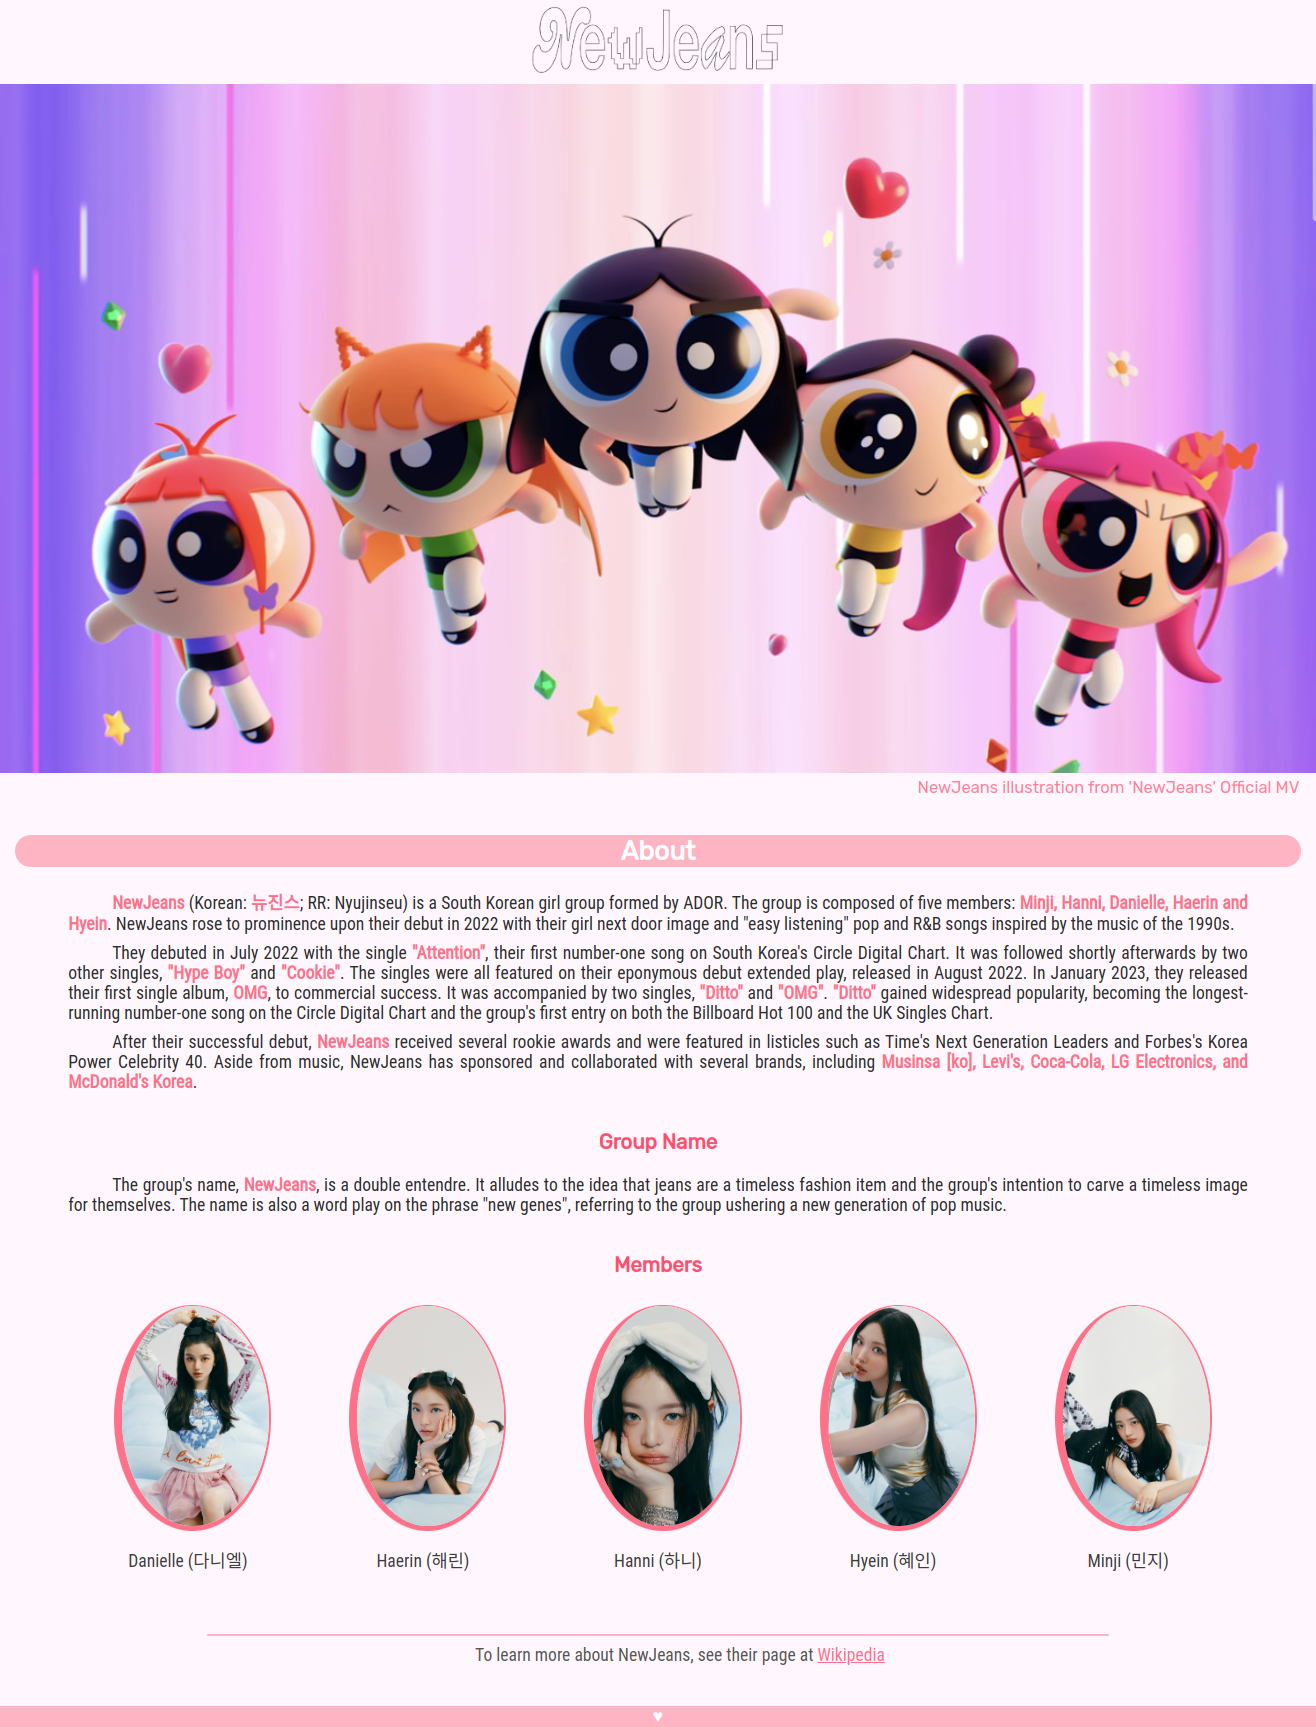
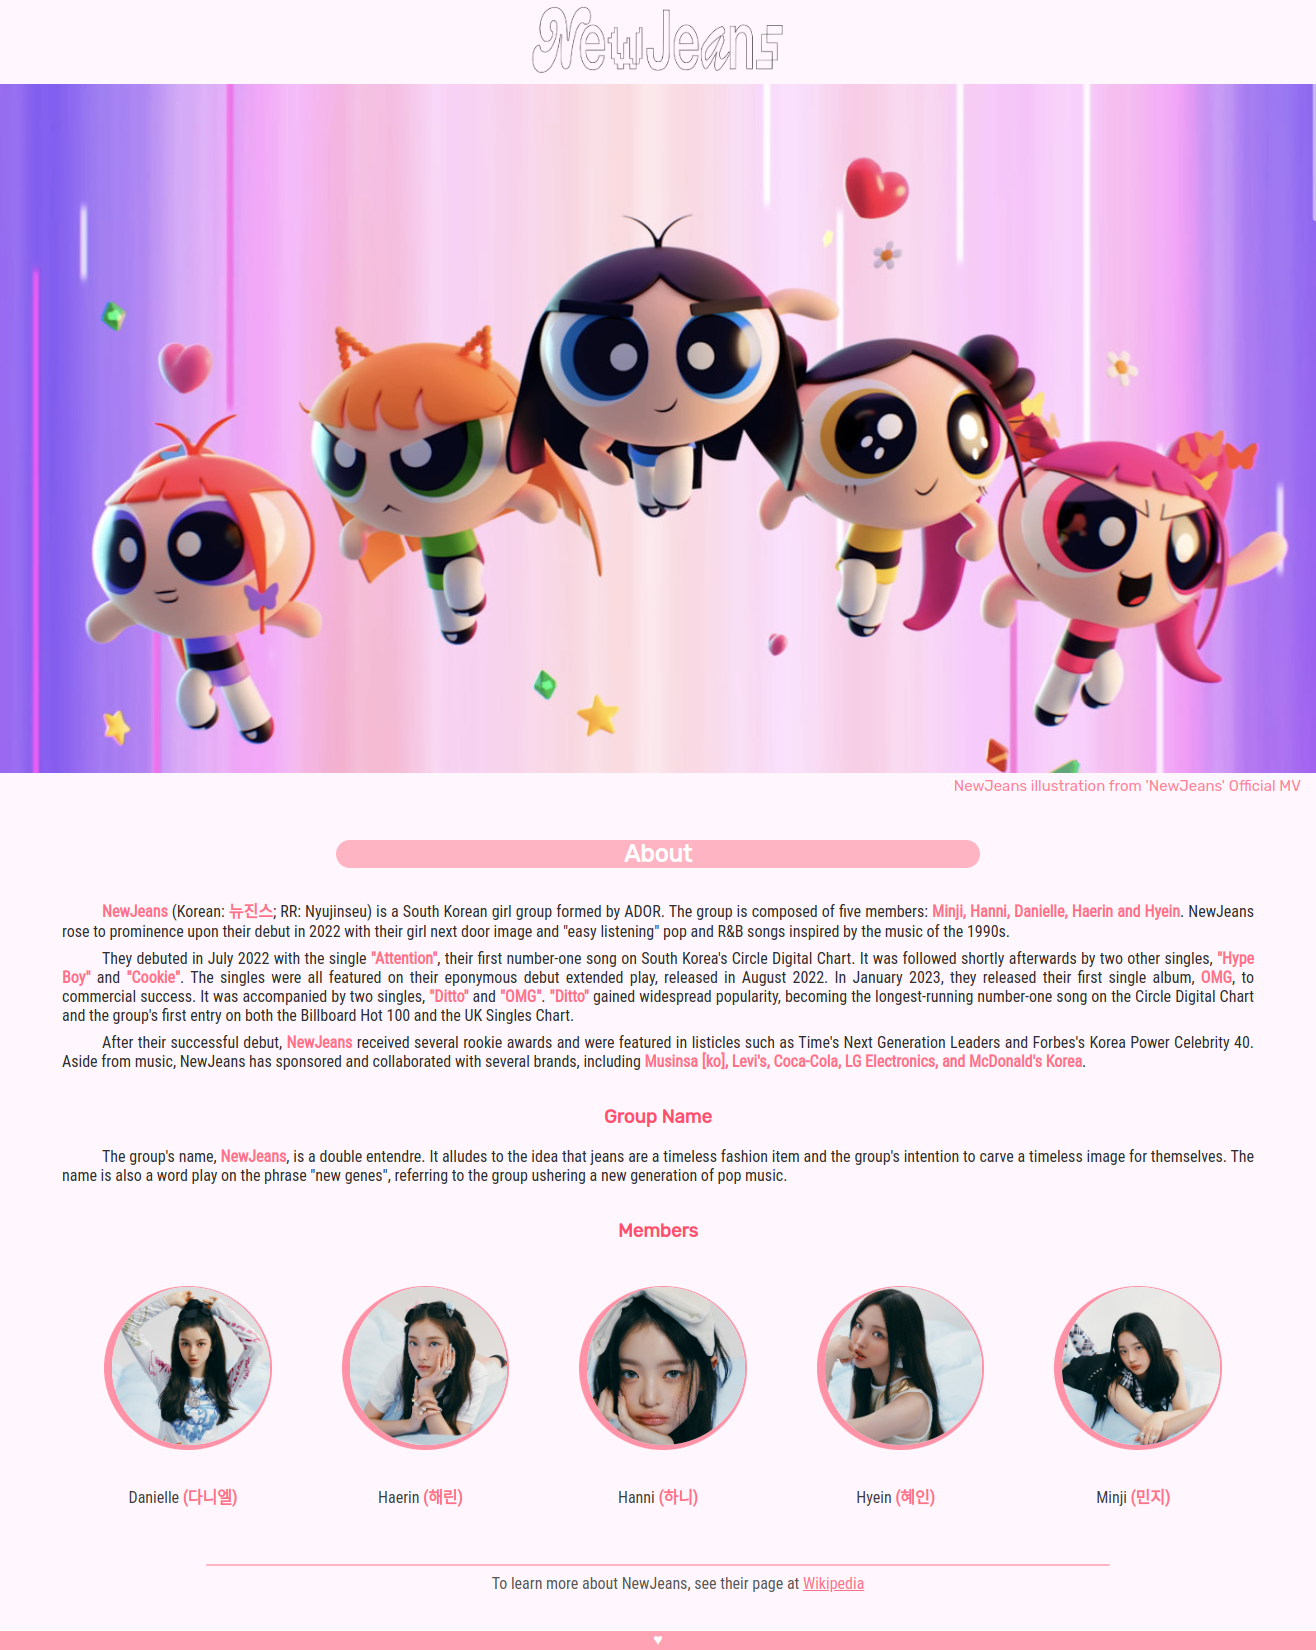
Alteração na forma dos retratos

diff --git a/index.html b/index.html
@@ -27,24 +27,24 @@
                     <h3>Members</h3>
                     <div id="members">
                         <figure>
-                            <img class="small" src="images/danielle.jpeg" alt="Danielle">
-                            <figcaption class="names">Danielle (다니엘)</figcaption>
+                            <img class="small" src="images/danielle.png" alt="Danielle">
+                            <figcaption class="names">Danielle <span class="pink bold">(다니엘)</span></figcaption>
                         </figure>
                         <figure>
-                            <img class="small" src="images/haerin.jpeg" alt="Haerin">
-                            <figcaption class="names">Haerin (해린)</figcaption>
+                            <img class="small" src="images/haerin.png" alt="Haerin">
+                            <figcaption class="names">Haerin <span class="pink bold">(해린)</span></figcaption>
                         </figure>
                         <figure>
-                            <img class="small" src="images/hanni.jpeg" alt="Hanni">
-                            <figcaption class="names">Hanni (하니)</figcaption>
+                            <img class="small" src="images/hanni.png" alt="Hanni">
+                            <figcaption class="names">Hanni <span class="pink bold">(하니)</span></figcaption>
                         </figure>
                         <figure>
-                            <img class="small" src="images/hyein.jpeg" alt="Hyein">
-                            <figcaption class="names">Hyein (혜인)</figcaption>
+                            <img class="small" src="images/hyein.png" alt="Hyein">
+                            <figcaption class="names">Hyein <span class="pink bold">(혜인)</span></figcaption>
                         </figure>
                         <figure>
-                            <img class="small" src="images/minji.jpeg" alt="Minji">
-                            <figcaption class="names">Minji (민지)</figcaption>
+                            <img class="small" src="images/minji.png" alt="Minji">
+                            <figcaption class="names">Minji <span class="pink bold">(민지)</span></figcaption>
                         </figure>
                     </div>
                     <div class="line"></div>

diff --git a/styles/styles.css b/styles/styles.css
@@ -40,6 +40,8 @@ h2 {
     border-radius: 15px;
     font-family: 'Rubik', sans-serif;
     background-color: rgba(255, 79, 108, 0.4);
+    width: 50%;
+    margin: 30px auto;
 }
 h3 {
     margin-top: 35px;
@@ -81,11 +83,13 @@ div {
     justify-content: space-around;
 }
 figure img[class="small"]{
+    margin-top: 20px;
+    margin-bottom: 20px;
     border-radius: 60%;
-    border-left: 8px solid rgba(255, 79, 108, 0.8);
-    border-bottom: 5px solid rgba(255, 79, 108, 0.8);
-    border-top: 1px solid rgba(255, 79, 108, 0.8);
-    border-right: 2px solid rgba(255, 79, 108, 0.8);
+    border-left: 8px solid rgba(255, 79, 108, 0.6);
+    border-bottom: 5px solid rgba(255, 79, 108, 0.6);
+    border-top: 1px solid rgba(255, 79, 108, 0.6);
+    border-right: 2px solid rgba(255, 79, 108, 0.6);
 }
 .names {
     color: rgb(61, 61, 61);
@@ -104,7 +108,7 @@ footer {
     margin-top: 20px;
     width: 100%;
     height: 19px;
-    background-color: rgba(255, 79, 108, 0.4);
+    background-color: rgba(255, 79, 108, 0.5);
     color: white;
     text-align: center;
 }
